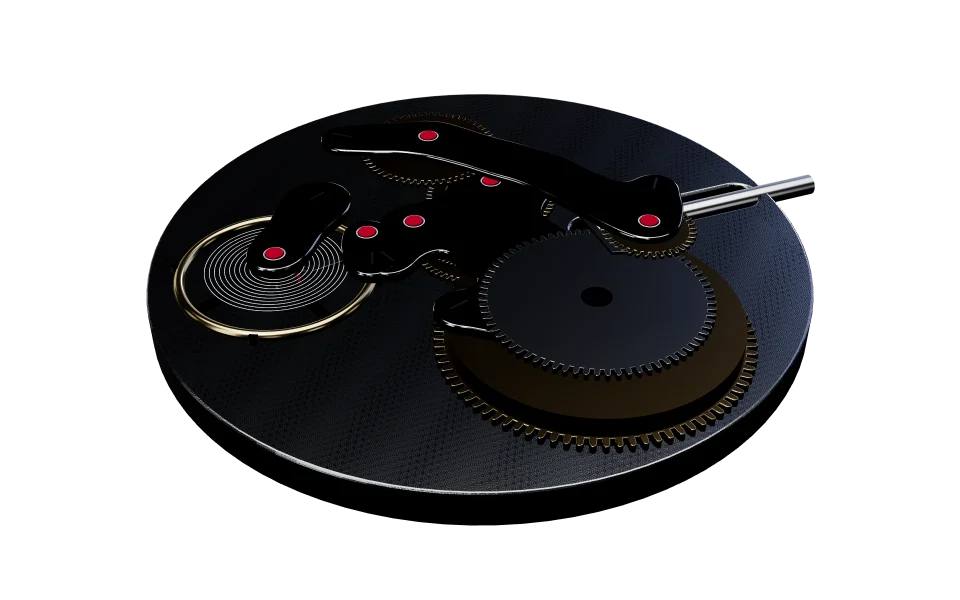
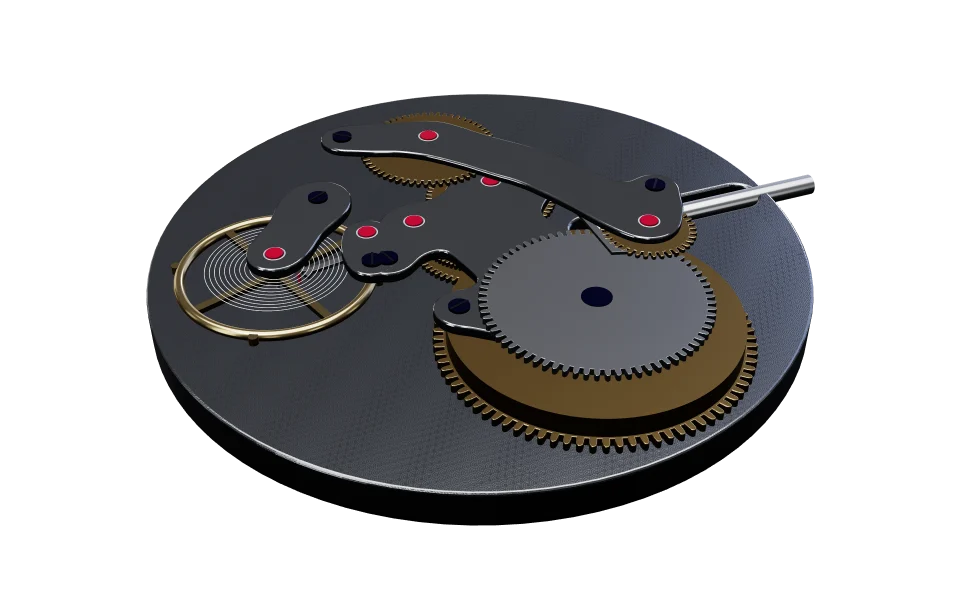
feat(lighting): filmic dark studio, contrast light studio
Each theme carries its own tone curve and reflection fill: the dark studio is ACES with a faint dome,
the light studio stays on PBR Neutral with no fill. The composer path inverts each curve for the
background, and Studio sets the renderer's curve only when no composer holds it off.

diff --git a/src/scene/looks.ts b/src/scene/looks.ts
@@ -1,13 +1,18 @@
 import * as THREE from 'three';
 import type { Theme } from '../state/store';
+import type { Tone } from './tone';
 
-// One tone curve for every render path. Khronos PBR Neutral keeps base colours as authored below ~0.76 and only rolls
-// off highlights, so a dial's print and a lume's cream read as painted. With the effect composer on, the renderer's
-// own tone mapping is switched off and Effects applies the same curve; before, the composer path had none at all and
-// the compare page used ACES, so the two never looked alike.
-export const TONE_MAPPING = THREE.NeutralToneMapping;
+// Each theme's tone curve applies on every render path: the renderer's on low quality and the compare page, Effects'
+// on high (the composer switches the renderer's off). Chosen from rendered candidates: the dark studio is filmic
+// (ACES, a faint fill in the reflections) so steel keeps depth without going murky; the light studio stays on
+// Khronos PBR Neutral, which keeps base colours as authored, with no fill and a strong key and rim, because ACES
+// washed it out.
+export const THREE_TONE: Record<Tone, THREE.ToneMapping> = { neutral: THREE.NeutralToneMapping, aces: THREE.ACESFilmicToneMapping };
 
 export type Look = {
+  tone: Tone;
+  // Overhead, horizon and underside radiance of a dim dome behind the studio's softboxes, or none.
+  fill: readonly [number, number, number] | null;
   background: string;
   exposure: number;
   envIntensity: number;
@@ -18,15 +23,13 @@ export type Look = {
   shadowOpacity: number;
 };
 
-// Chosen from five candidates (lighting preset "C"): no fill in the reflections and a stronger key and rim, so steel
-// keeps deep blacks between its highlights instead of reading flat grey.
 export const LOOKS: Record<Theme, Look> = {
   dark: {
-    background: '#0b0b0d', exposure: 1, envIntensity: 1.0,
-    rimColor: '#bfd0ff', key: 1.6, keyColor: '#ffffff', rim: 0.8, shadowOpacity: 0.5,
+    tone: 'aces', fill: [0.12, 0.04, 0], background: '#0b0b0d', exposure: 1, envIntensity: 1.1,
+    rimColor: '#bfd0ff', key: 1.4, keyColor: '#ffffff', rim: 0.9, shadowOpacity: 0.5,
   },
   light: {
-    background: '#ecebe7', exposure: 1, envIntensity: 0.7,
+    tone: 'neutral', fill: null, background: '#ecebe7', exposure: 1, envIntensity: 0.7,
     rimColor: '#ffffff', key: 1.4, keyColor: '#ffffff', rim: 0.5, shadowOpacity: 0.22,
   },
 };

diff --git a/src/scene/tone.ts b/src/scene/tone.ts
@@ -15,12 +15,30 @@ export function neutral([r, g, b]: [number, number, number], exposure = 1): [num
   return c.map((v) => v * (newPeak / peak) * (1 - k) + newPeak * k) as [number, number, number];
 }
 
-// The linear colour the curve maps onto `target`: what a scene background must be for the screen to show `target`
+type RGB = [number, number, number];
+
+// three.js's ACESFilmicToneMapping: its 1/0.6 pre-scale, the input and output matrices (columns as in the GLSL) and
+// the RRT+ODT fit.
+const IN = [[0.59719, 0.0760, 0.0284], [0.35458, 0.90834, 0.13383], [0.04823, 0.01566, 0.83777]];
+const OUT = [[1.60475, -0.10208, -0.00327], [-0.53108, 1.10813, -0.07276], [-0.07367, -0.00605, 1.07602]];
+const mul = (m: number[][], v: RGB): RGB => [0, 1, 2].map((i) => m[0]![i]! * v[0] + m[1]![i]! * v[1] + m[2]![i]! * v[2]) as RGB;
+const fit = (v: number) => (v * (v + 0.0245786) - 0.000090537) / (v * (0.983729 * v + 0.432951) + 0.238081);
+
+export function aces([r, g, b]: RGB, exposure = 1): RGB {
+  const k = exposure / 0.6;
+  const c = mul(OUT, mul(IN, [r * k, g * k, b * k]).map(fit) as RGB);
+  return c.map((v) => Math.min(1, Math.max(0, v))) as RGB;
+}
+
+export type Tone = 'neutral' | 'aces';
+const FORWARD: Record<Tone, (c: RGB, exposure?: number) => RGB> = { neutral, aces };
+
+// The linear colour a curve maps onto `target`: what a scene background must be for the screen to show `target`
 // when the whole frame, background included, is tone mapped (the effect composer's path).
-export function neutralInverse(target: [number, number, number], exposure = 1): [number, number, number] {
-  const c = [...target] as [number, number, number];
-  for (let i = 0; i < 40; i++) {
-    const f = neutral(c, exposure);
+export function toneInverse(tone: Tone, target: RGB, exposure = 1): RGB {
+  const c = [...target] as RGB;
+  for (let i = 0; i < 60; i++) {
+    const f = FORWARD[tone](c, exposure);
     for (let j = 0; j < 3; j++) c[j] = Math.max(0, c[j]! + (target[j]! - f[j]!) / exposure);
   }
   return c;

diff --git a/src/scene/studioEnv.ts b/src/scene/studioEnv.ts
@@ -1,5 +1,21 @@
 import * as THREE from 'three';
+import { LOOKS } from './looks';
 import { RoomEnvironment } from 'three/examples/jsm/environments/RoomEnvironment.js';
+
+// A dome shaded from `top` overhead through `horizon` to `bottom` underneath (linear radiance): a faint fill so the
+// sides of polished steel mirror something dimmer than black.
+function dome(top: number, horizon: number, bottom: number) {
+  const g = new THREE.SphereGeometry(40, 32, 16);
+  const pos = g.getAttribute('position');
+  const colors = new Float32Array(pos.count * 3);
+  for (let i = 0; i < pos.count; i++) {
+    const y = pos.getY(i) / 40;
+    const v = y >= 0 ? horizon + (top - horizon) * Math.sqrt(y) : horizon + (bottom - horizon) * Math.sqrt(-y);
+    colors.set([v, v, v * 1.03], i * 3);
+  }
+  g.setAttribute('color', new THREE.BufferAttribute(colors, 3));
+  return new THREE.Mesh(g, new THREE.MeshBasicMaterial({ vertexColors: true, side: THREE.BackSide }));
+}
 
 // Same studio as the approved prototype (v8): emissive softbox and strip planes aimed at the watch, prefiltered once.
 // drei's Lightformer environment rendered noticeably dimmer and patchier than this for the same layout.
@@ -7,6 +23,7 @@ export function buildStudioEnvironments(gl: THREE.WebGLRenderer) {
   const pmrem = new THREE.PMREMGenerator(gl);
   const studio = new THREE.Scene();
   studio.background = new THREE.Color(0x000000);
+  if (LOOKS.dark.fill) studio.add(dome(...LOOKS.dark.fill));
   const box = (w: number, h: number, x: number, y: number, z: number, color: number, intensity: number, into: THREE.Scene = studio) => {
     const m = new THREE.Mesh(
       new THREE.PlaneGeometry(w, h),

diff --git a/src/scene/Studio.tsx b/src/scene/Studio.tsx
@@ -3,9 +3,9 @@ import { useEffect, useMemo, useRef } from 'react';
 import * as THREE from 'three';
 import { flipGroup } from './flip';
 import { useApp } from '../state/app';
-import { LOOKS } from './looks';
+import { LOOKS, THREE_TONE } from './looks';
 import { buildStudioEnvironments } from './studioEnv';
-import { neutralInverse } from './tone';
+import { toneInverse } from './tone';
 
 // `composer`: the frame is tone mapped after the fact (Effects), background included, so the background is set to the
 // colour the curve maps onto the theme's. `faceUp`: turn the studio so its overhead softbox sits behind a camera that
@@ -19,15 +19,17 @@ export function Studio({ composer = false, faceUp = false }: { composer?: boolea
 
   const background = useMemo(() => {
     const c = new THREE.Color(look.background);
-    return composer ? new THREE.Color(...neutralInverse([c.r, c.g, c.b], look.exposure)) : c;
+    return composer ? new THREE.Color(...toneInverse(look.tone, [c.r, c.g, c.b], look.exposure)) : c;
   }, [look, composer]);
   const envs = useMemo(() => buildStudioEnvironments(gl), [gl]);
   useEffect(() => {
     gl.toneMappingExposure = look.exposure;
+    // With a composer the renderer's curve is held off and Effects applies it instead.
+    if (!composer) gl.toneMapping = THREE_TONE[look.tone];
     scene.environment = theme === 'light' ? envs.light : envs.dark;
     scene.environmentIntensity = look.envIntensity;
     scene.environmentRotation.set(faceUp ? -0.66 : 0, 0, 0);
-  }, [gl, scene, look, theme, envs, faceUp]);
+  }, [gl, scene, look, theme, envs, faceUp, composer]);
 
   const floor = useRef<THREE.Mesh>(null);
   useFrame(() => {

diff --git a/src/scene/tone.test.ts b/src/scene/tone.test.ts
@@ -1,18 +1,37 @@
 import { describe, expect, it } from 'vitest';
 import * as THREE from 'three';
 import { LOOKS } from './looks';
-import { neutral, neutralInverse } from './tone';
+import { aces, neutral, toneInverse } from './tone';
 
 describe('neutral tone curve', () => {
   it('leaves mid-tones nearly as authored', () => {
     const [r] = neutral([0.5, 0.5, 0.5]);
     expect(r).toBeCloseTo(0.46, 2);
   });
-  it('inverts, so a tone-mapped background still shows the theme colour', () => {
+});
+
+describe('ACES filmic tone curve (three.js variant)', () => {
+  it('maps black to black and saturates bright white', () => {
+    for (const v of aces([0, 0, 0])) expect(Math.abs(v)).toBeLessThan(0.01);
+    for (const v of aces([20, 20, 20])) expect(v).toBeCloseTo(1, 2);
+  });
+  it('rises monotonically through the mid-tones', () => {
+    let prev = -1;
+    for (let x = 0.01; x < 2; x += 0.05) {
+      const [r] = aces([x, x, x]);
+      expect(r).toBeGreaterThan(prev);
+      prev = r;
+    }
+  });
+});
+
+describe('theme backgrounds', () => {
+  it('invert through their own curve, so a tone-mapped background still shows the theme colour', () => {
     for (const look of Object.values(LOOKS)) {
       const c = new THREE.Color(look.background);
       const target: [number, number, number] = [c.r, c.g, c.b];
-      const back = neutral(neutralInverse(target, look.exposure), look.exposure);
+      const forward = look.tone === 'aces' ? aces : neutral;
+      const back = forward(toneInverse(look.tone, target, look.exposure), look.exposure);
       for (let i = 0; i < 3; i++) expect(back[i]).toBeCloseTo(target[i]!, 3);
     }
   });

diff --git a/src/scene/Effects.tsx b/src/scene/Effects.tsx
@@ -7,12 +7,15 @@ import type { Caliber } from '../model/schema';
 import { focusKey } from '../model/validate';
 import { appStore, useApp } from '../state/app';
 import type { Theme } from '../state/store';
+import { LOOKS } from './looks';
 import { registry } from './registry';
 
 // Matches the approved prototype: a faint bloom on specular highlights only. Depth of field is left out on purpose:
 // the postprocessing DOF blurs at reduced resolution and made every gear look soft.
-// The composer turns the renderer's tone mapping off, so the curve (looks.ts TONE_MAPPING) is applied here, last,
+// The composer turns the renderer's tone mapping off, so the curve (the theme's, looks.ts) is applied here, last,
 // in the same effect pass as the bloom.
+const COMPOSER_TONE = { neutral: ToneMappingMode.NEUTRAL, aces: ToneMappingMode.ACES_FILMIC } as const;
+
 export function Effects({ caliber }: { caliber: Caliber }) {
   const theme = useApp((s) => s.theme);
   return (
@@ -20,7 +23,7 @@ export function Effects({ caliber }: { caliber: Caliber }) {
     <EffectComposer multisampling={4} autoClear={false}>
       <Bloom intensity={0.1} luminanceThreshold={0.97} luminanceSmoothing={0.35} mipmapBlur />
       <FocusOutline key={theme} caliber={caliber} theme={theme} />
-      <ToneMapping mode={ToneMappingMode.NEUTRAL} />
+      <ToneMapping mode={COMPOSER_TONE[LOOKS[theme].tone]} />
     </EffectComposer>
   );
 }

diff --git a/src/dev/Compare.tsx b/src/dev/Compare.tsx
@@ -8,7 +8,6 @@ import { buildExterior } from '../scene/exterior/contract';
 import { useDiscMaterials } from '../scene/exterior/discMaterials';
 import { movementFrame } from '../scene/exterior/frame';
 import { MaterialsProvider } from '../scene/materials';
-import { TONE_MAPPING } from '../scene/looks';
 import { Movement } from '../scene/Movement';
 import { Studio } from '../scene/Studio';
 import { cameraOffset, defaultCamera, parseTime, type Shot, type ShotCamera, type View } from './shots';
@@ -105,7 +104,7 @@ export function Compare({ caliber, watch, shots, shotId, view, mode: initialMode
   const height = photo?.height ?? DEFAULT_SIZE;
   const stage = (
     <div className="compare-canvas" style={{ width, height, position: 'relative' }}>
-      <Canvas orthographic dpr={1} gl={{ antialias: true, preserveDrawingBuffer: true, toneMapping: TONE_MAPPING }} style={{ width, height }}>
+      <Canvas orthographic dpr={1} gl={{ antialias: true, preserveDrawingBuffer: true }} style={{ width, height }}>
         <Rig cam={cam} width={width} height={height} />
         <MaterialsProvider>
           <Studio faceUp />

diff --git a/src/app/App.tsx b/src/app/App.tsx
@@ -14,7 +14,6 @@ import { caseBounds } from '../scene/exterior/caseBounds';
 import { FlowPaths } from '../scene/FlowPaths';
 import { flipGroup } from '../scene/flip';
 import { MaterialsProvider } from '../scene/materials';
-import { TONE_MAPPING } from '../scene/looks';
 import { Movement } from '../scene/Movement';
 import { Studio } from '../scene/Studio';
 import { useApp } from '../state/app';
@@ -42,7 +41,7 @@ export function App({ caliber, i18n, webgl, watch, exterior }: { caliber: Calibe
         dpr={quality === 'high' ? [1, 2] : [1, 1.5]}
         camera={{ fov: 26, near: 0.5, far: 400, position: [-24, 52, 62] }}
         // The effect composer multisamples its own buffer on high; the canvas's MSAA would only be discarded.
-        gl={{ antialias: quality !== 'high', toneMapping: TONE_MAPPING }}
+        gl={{ antialias: quality !== 'high' }}
       >
         <MaterialsProvider>
           <Studio composer={quality === 'high'} />
